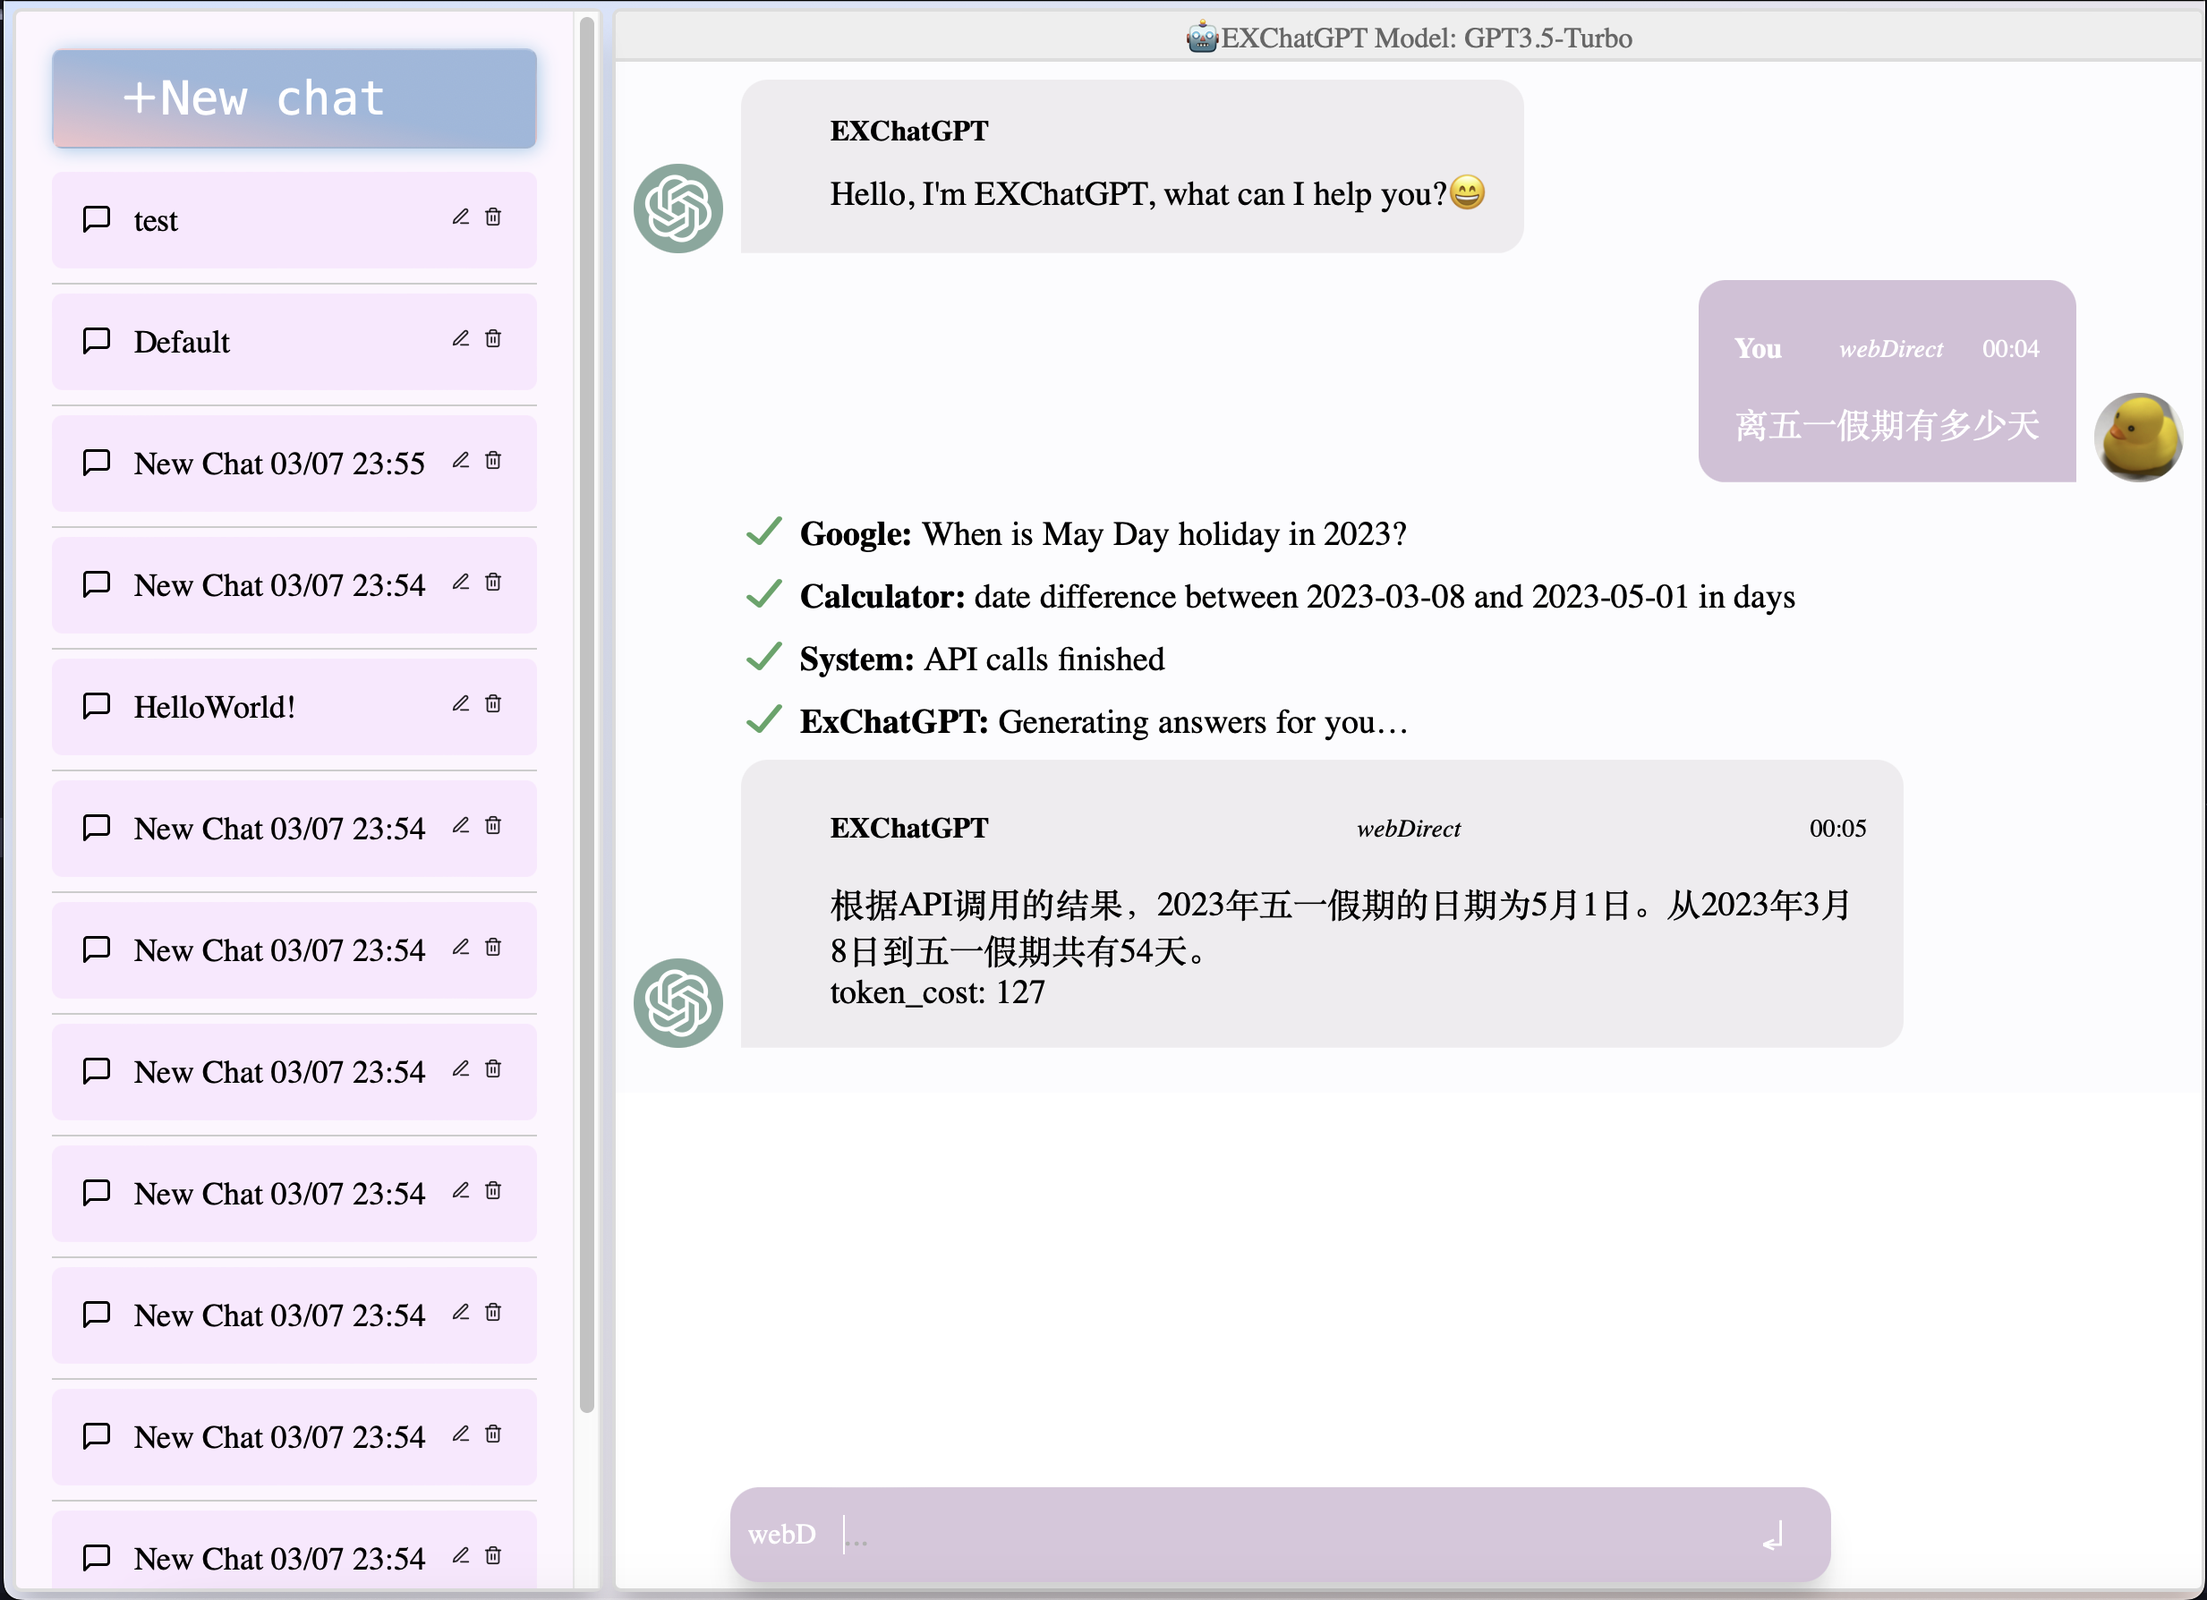
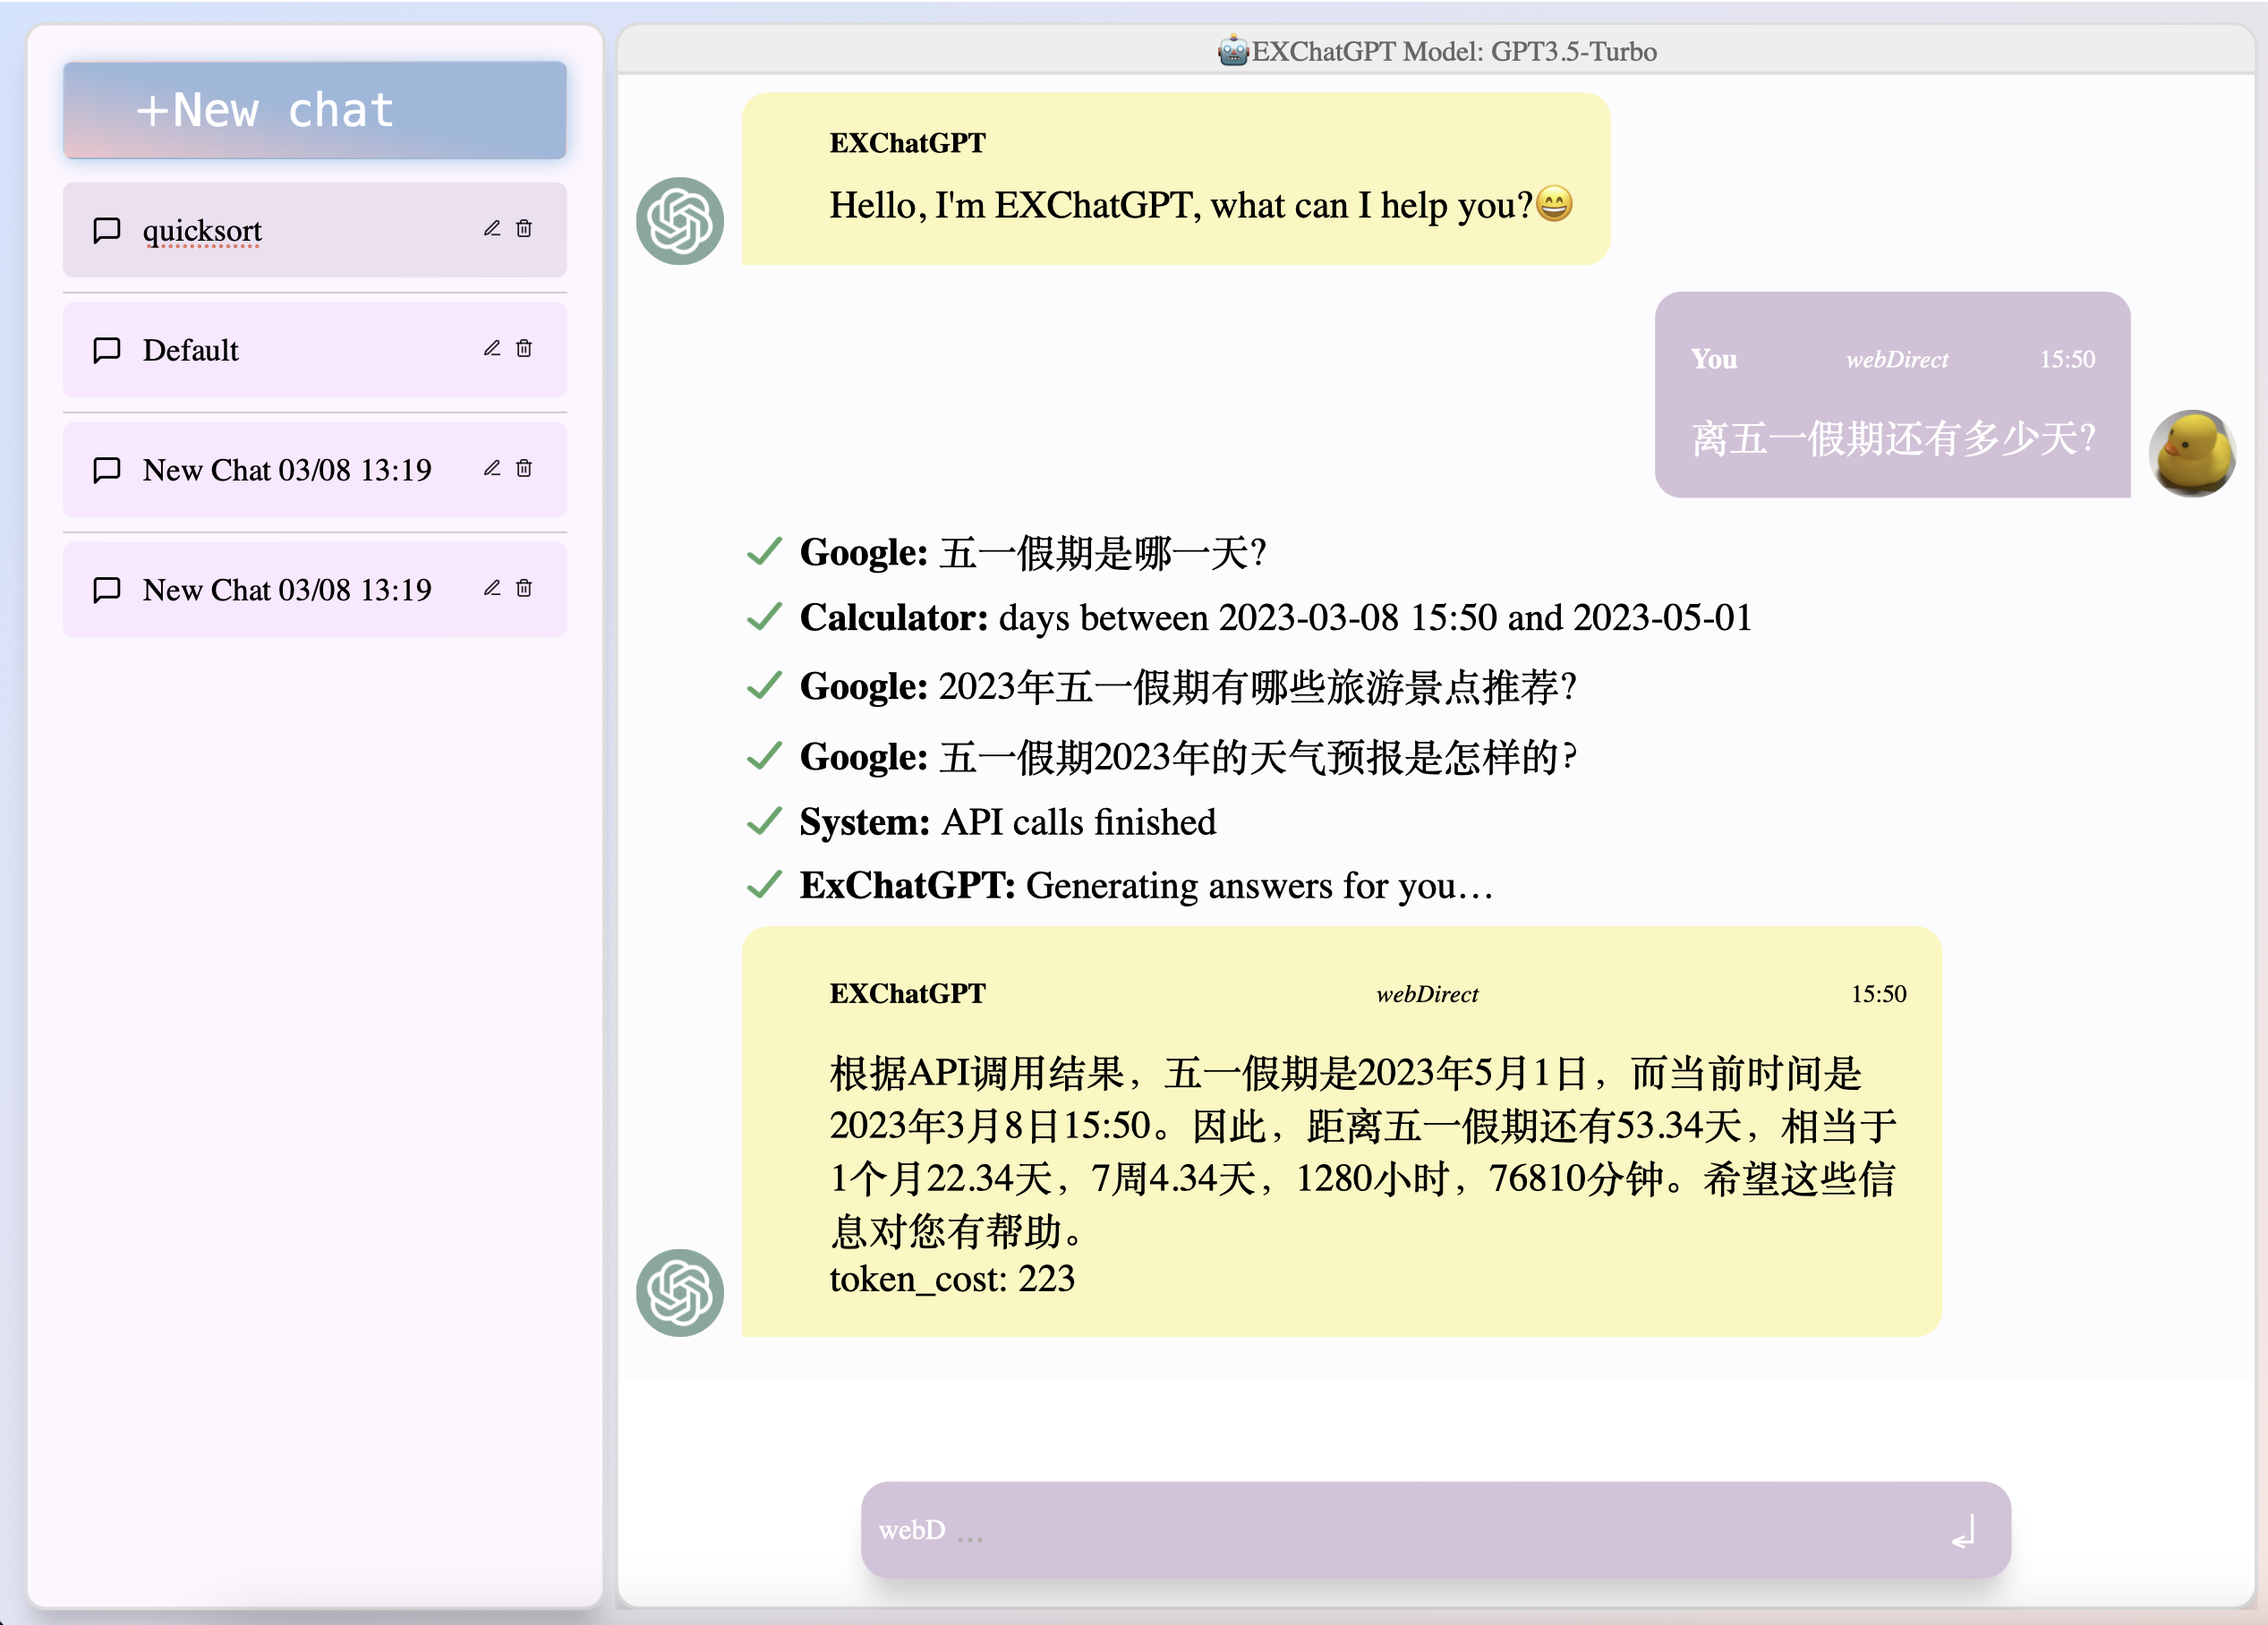
update inputarea beautification and content autojustment

diff --git a/chatGPTEx/static/styles/style.css b/chatGPTEx/static/styles/style.css
@@ -2,7 +2,7 @@
   --body-bg: linear-gradient(135deg, #c9e4ff 0%, #ffe4e1 100%);
   --msger-bg: #fff;
   --border: 2px solid #ddd;
-  --left-msg-bg: #efecef;
+  --left-msg-bg: #fff7bc;
   --right-msg-bg: #d8bfd8;
 } 
 
@@ -19,9 +19,10 @@ html {
 }
 
 body {
+  transform: scale(0.985);
   height: 100vh;
   background-image: var(--body-bg);
-  font-family: "fira code";
+  font-family: "Fira Code";
 }
 
 .container {
@@ -31,7 +32,9 @@ body {
   flex-direction: row;
   height: 100vh;
 }
-.msger {
+
+.chat-page{
+  position: relative;
 	overflow-x: hidden;
 	overflow-y: auto;
   flex: 1;
@@ -40,8 +43,21 @@ body {
   width: 100%;
   max-width: 80%;
   height: calc(99%);
+  background: transparent;
+  border: 0px;
+  margin: 0px;
+}
+.msger {
+  position: relative;
+	overflow-x: hidden;
+	overflow-y: auto;
+  flex: 1;
+  flex-flow: column wrap;
+  justify-content: space-between;
+  width: 100%;
+  height: 100%;
   border: var(--border);
-  border-radius: 5px;
+  border-radius: 14px;
   background: var(--msger-bg);
   box-shadow: 0 15px 15px -5px rgba(0, 0, 0, 0.2);
   margin-bottom: 0px;
@@ -79,7 +95,7 @@ body {
   margin-bottom: 15px;
 }
 .msg-text{
-  font-size: 1.2em;
+  font-size: 1.4em;
 }
 .msg-img {
   width: 50px;
@@ -164,30 +180,22 @@ body {
 .msger-input :focus:hover{
   border-color: pink;
 }
-#textInput{
-  outline: none;
-  font-family: 'fira code';
-}
 .msger-inputarea * {
   background-color: transparent;
-  padding-top: 10px;
-  padding-bottom: 10px;
-  padding-left: 10px;
   border: none;
-  font-size: 1.2em;
+  font-size: 1.4em;
   color: white;
-  font-family: 'fira code';
+  font-family: 'Fira Code';
 }
 .msger-input {
   flex: 1;
 }
 .msger-send-btn { 
   width: f;
-  border-radius: 15px;
+  border-radius: 5px;
   margin-left: 10px;
   margin-right: 5px;
-  padding-right: 16px;
-  margin-top: auto;
+  padding-right: 10px;
   background: transparent;
   color: #fff;
   cursor: pointer;
@@ -201,7 +209,7 @@ body {
   background-color: #fcfcfe;
 }
 select#mode {
-  font-family: 'fira code';
+  font-family: 'Fira Code';
   color: white;
   background-color: transparent;
   align-content: center;
@@ -222,22 +230,23 @@ select#mode:hover, select#mode:focus {
   outline: none;
 }
 .row {
-  opacity: 90%;
+  opacity: 95%;
   border: none;
   border-radius: 16px;
   padding: 5px;
   background: var(--right-msg-bg);
   box-shadow: 0 15px 15px -5px rgba(0, 0, 0, 0.2);
-  position: fixed;
-  bottom: 10px;
-  left: 33%;
-  right: 0;
+  position: absolute;
+  bottom: 2%;
+  left: 50%;
+  transform: translateX(-50%);
+  right: auto;
   display: flex;
   flex-wrap: wrap;
   align-items: center;
-  max-width: 50%;
+  width: 70%;
+  height: auto;
 }
-
 .col {
   flex: 1;
 }
@@ -262,13 +271,14 @@ select#mode:hover, select#mode:focus {
   outline: none;
 }
 pre {
-  background-color: #f5f5f5;
-  font-family: "fira code";
+  background-color: #fffbde!important;
+  font-family: "Fira Code";
   font-size: 14px;
   line-height: 1.5;
   margin: 0;
   overflow: auto;
   padding: 1em;
+  border-radius: 10px;
 }
 
 /* Add line numbers to the highlighted code */
@@ -296,7 +306,7 @@ pre {
   margin: 10px 5px;
   height: calc(99%);
   border: var(--border);
-  border-radius: 5px;
+  border-radius: 12px;
   background: var(--msger-bg);
   box-shadow: 0 15px 15px -5px rgba(0, 0, 0, 0.2);
 }
@@ -434,3 +444,68 @@ pre {
 body > div.container > div > ul > li:nth-child(1) > a{
   background-color: #f0dff2;
 }
+span.token.operator{
+  background: transparent!important;
+}
+span.token.space{
+  visibility: hidden!important;
+}
+span.token.lf{
+  visibility: hidden!important;
+}
+textarea{
+  padding-top: 10px;
+  padding-bottom: 10px;
+  vertical-align:middle;
+  outline: none;
+  -webkit-text-size-adjust: 100%;
+  tab-size: 4;
+  color: inherit;
+  font-weight: inherit;
+  appearance: none;
+  line-height: 1.5rem;
+  margin: 0;
+  width: 100%;
+  resize: none;
+  border-width: 0;
+  background-color: transparent;
+  overflow-y: scroll;
+}
+::-webkit-scrollbar {
+  height: 1rem;
+  width: .5rem
+}
+
+::-webkit-scrollbar:horizontal {
+  height: .5rem;
+  width: 1rem
+}
+
+::-webkit-scrollbar-track {
+  background-color: transparent;
+  border-radius: 9999px
+}
+
+::-webkit-scrollbar-thumb {
+  --tw-border-opacity: 1;
+  background-color: rgba(217,217,227,.8);
+  border-color: rgba(255,255,255,var(--tw-border-opacity));
+  border-radius: 9999px;
+  border-width: 1px
+}
+
+::-webkit-scrollbar-thumb:hover {
+  --tw-bg-opacity: 1;
+  background-color: rgba(236,236,241,var(--tw-bg-opacity))
+}
+
+.dark ::-webkit-scrollbar-thumb {
+  --tw-bg-opacity: 1;
+  background-color: rgba(86,88,105,var(--tw-bg-opacity))
+}
+
+.dark ::-webkit-scrollbar-thumb:hover {
+  --tw-bg-opacity: 1;
+  background-color: rgba(172,172,190,var(--tw-bg-opacity))
+}
+

diff --git a/chatGPTEx/templates/index.html b/chatGPTEx/templates/index.html
@@ -30,36 +30,40 @@
       <ul class="sidebar-list">
       </ul>
     </div>
-    <section class="msger">
-      <header class="msger-header">
-        <div class="msger-header-title">
-          🤖EXChatGPT Model: <span> </span>GPT3.5-Turbo
+    <div class="chat-page">
+      <section class="msger">
+        <header class="msger-header">
+          <div class="msger-header-title">
+            🤖EXChatGPT Model: <span> </span>GPT3.5-Turbo
+          </div>
+        </header>
+        <main class="msger-chat">
+        </main>
+      </section>
+      <div class="row">
+        <div class="col col-first">
+          <form>
+            <select class="mode-selection" id="mode" name="mode">
+              <option value="web">web</option>
+              <option value="chat">chat</option>
+              <option value="WebKeyWord">WebKeyWord</option>
+              <option value="webDirect">webDirect</option>
+              <option value="detail">detail</option>
+            </select>
+            <br>
+          </form>
         </div>
-      </header>
-      <main class="msger-chat">
-      </main>
-    </section>
-  </div>
-  <div class="row">
-    <div class="col col-first">
-      <form>
-        <select class="mode-selection" id="mode" name="mode">
-          <option value="web">web</option>
-          <option value="chat">chat</option>
-          <option value="WebKeyWord">WebKeyWord</option>
-          <option value="webDirect">webDirect</option>
-          <option value="detail">detail</option>
-        </select>
-        <br>
-      </form>
+        <div class="col">
+          <form class="msger-inputarea">
+            <textarea type="text" class="msger-input" id="textInput" placeholder="..."></textarea>
+            <button type="submit" class="msger-send-btn">↵</button>
+          </form>
+        </div>
+      </div>
     </div>
-    <div class="col">
-      <form class="msger-inputarea">
-        <input type="text" class="msger-input" id="textInput" placeholder="...">
-        <button type="submit" class="msger-send-btn">↵</button>
-      </form>
-    </div>
+
   </div>
+
   <script>
     const msgerForm = get(".msger-inputarea");
     const msgerInput = get(".msger-input");
@@ -192,6 +196,19 @@
       const m = "0" + date.getMinutes();
       return `${h.slice(-2)}:${m.slice(-2)}`;
     }
+    const textarea = document.querySelector('textarea');
+    textarea.style.height = '45px';
+    textarea.style.paddingTop = '10px';
+    textarea.addEventListener('input', () => {
+      textarea.style.height = 'auto';
+      if(textarea.scrollHeight<90){
+        textarea.style.height = '45px';
+      }else if(textarea.scrollHeight>400){
+        textarea.style.height = `400px`;
+      }else{
+        textarea.style.height = `${textarea.scrollHeight+5}px`;
+      }
+    });
   </script>
   <script src="{{ url_for('static', filename='styles/newChat.js') }}"></script>
 </body>

diff --git a/chatGPTEx/main.py b/chatGPTEx/main.py
@@ -69,9 +69,9 @@ def send_history():
     chats  = load_history(conv_id=uuid)[1:]
     for chat in chats:
         if chat['role']=='user':
-            msgs.append({'name': 'You', 'img': 'static/styles/person.jpg', 'side': 'right', 'text': parse_text(chat['content']), 'mode': ''})
+            msgs.append({'name': 'You', 'img': 'static/styles/person.jpg', 'side': 'right', 'text': parse_text(chat['content'])})
         else:
-            msgs.append({'name': 'ExChatGPT', 'img': 'static/styles/ChatGPT_logo.png', 'side': 'left', 'text': parse_text(chat['content']), 'mode': ''})
+            msgs.append({'name': 'ExChatGPT', 'img': 'static/styles/ChatGPT_logo.png', 'side': 'left', 'text': parse_text(chat['content'])})
     return json.dumps(msgs,ensure_ascii=False)
 lastAPICallListLength = len(APICallList)
 @app.route("/api/APIProcess")
